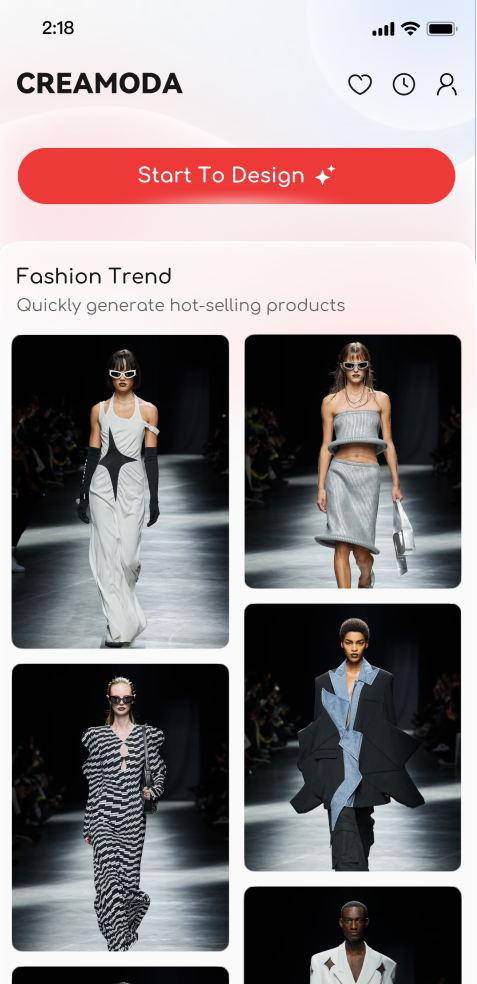
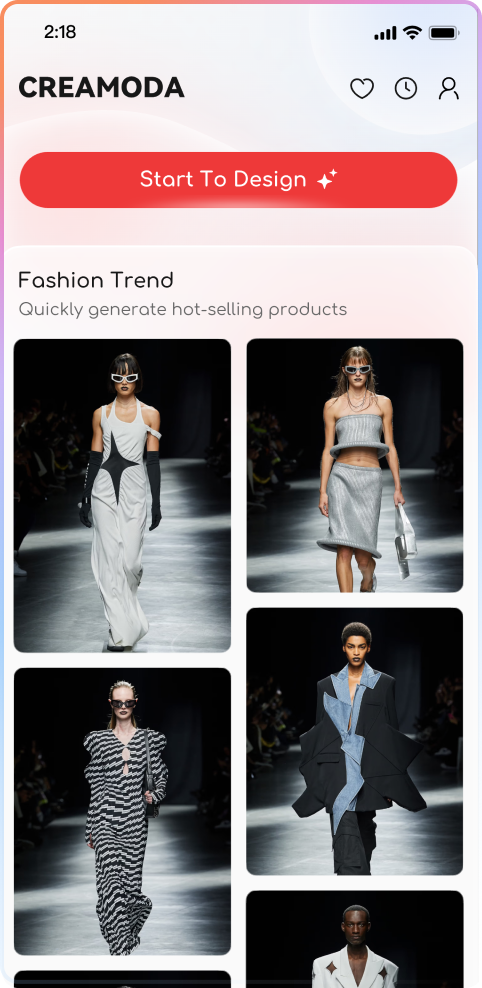
修改

diff --git a/components/ProductShowcase/index.tsx b/components/ProductShowcase/index.tsx
@@ -21,6 +21,13 @@ const ProductShowcase = () => {
           className="md:hidden block object-cover opacity-30"
           priority
         />
+        <Image
+          src="/assets/images/home/phone-bg-b.png"
+          alt="Bottom Background Pattern"
+          fill
+          className="object-cover"
+          priority
+        />
       </div>
 
       <div className="container mx-auto px-4 relative z-10">
@@ -49,8 +56,7 @@ const ProductShowcase = () => {
               src="/assets/images/home/phone-mockup.png"
               alt="App Interface"
               fill
-              className="object-cover"
-              style={{ backgroundColor: "lightgray" }}
+              className="object-contain"
               priority
             />
           </div>
